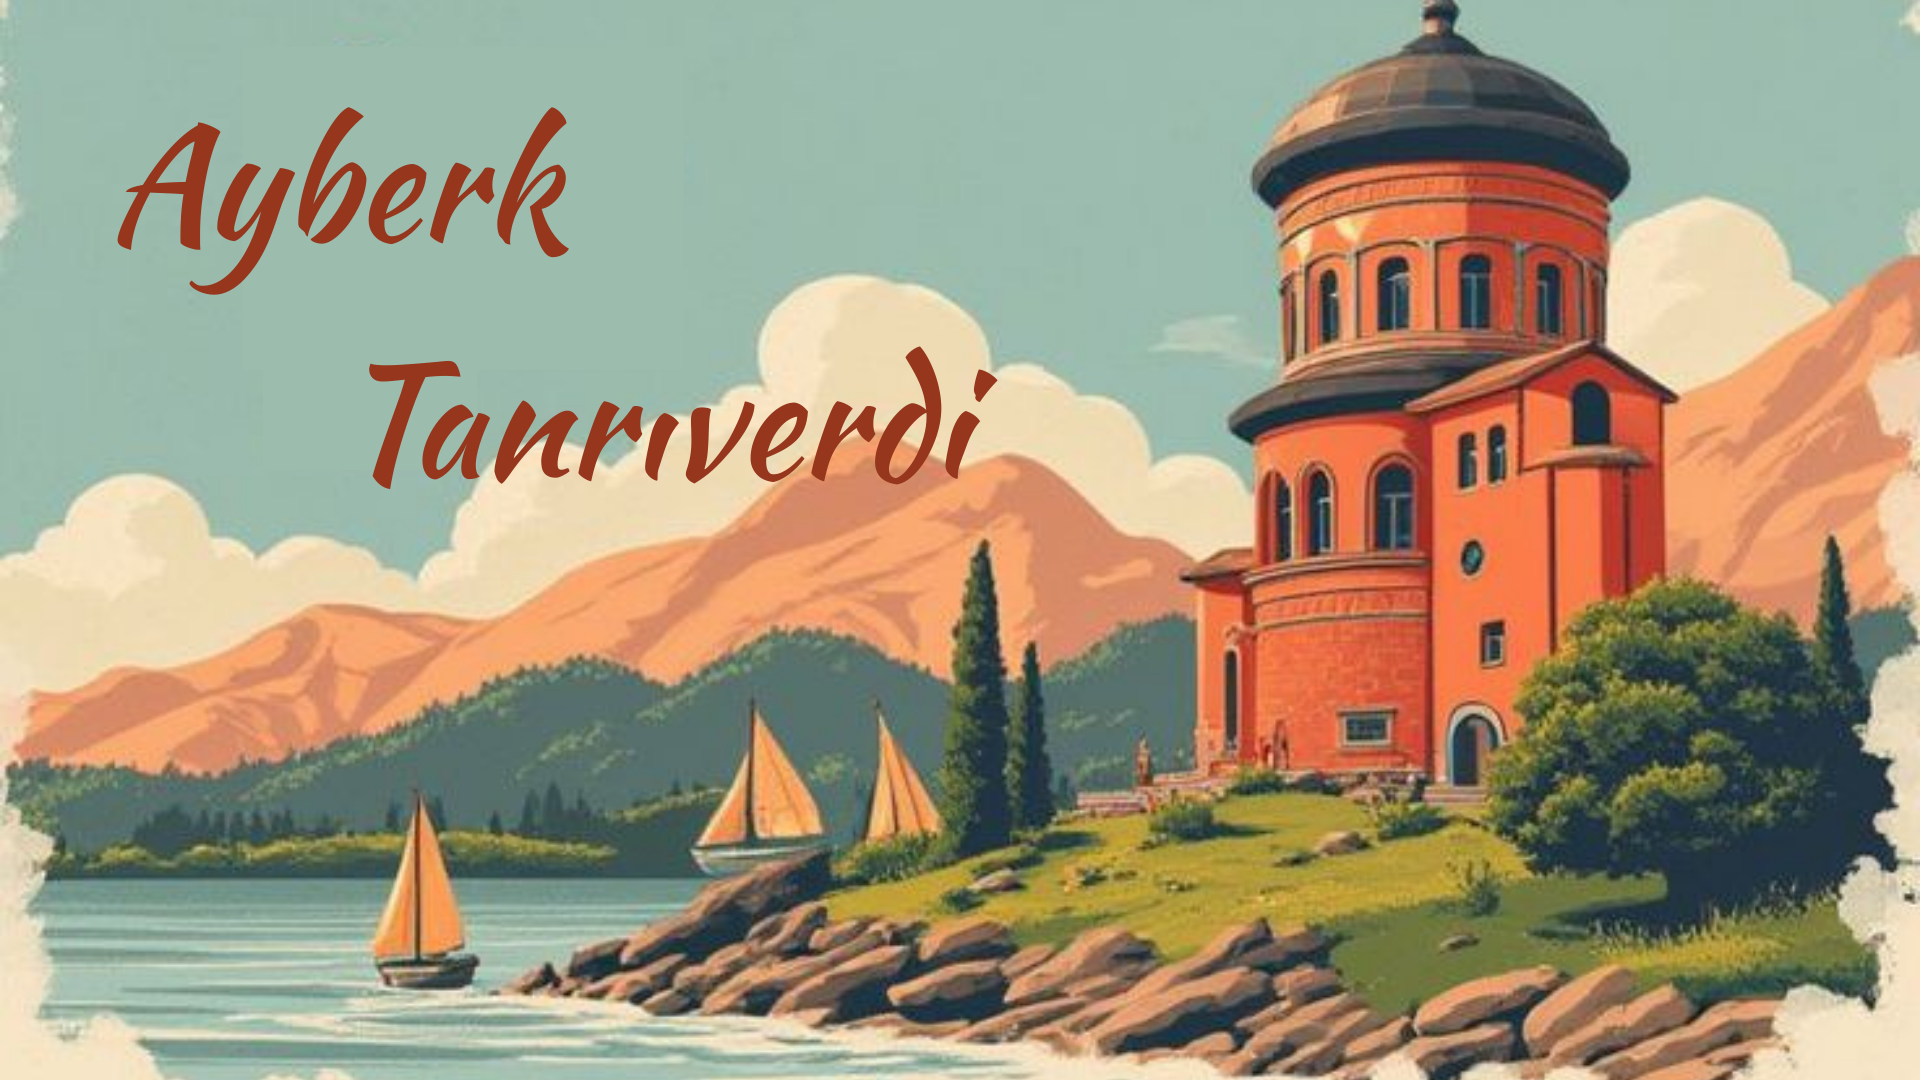
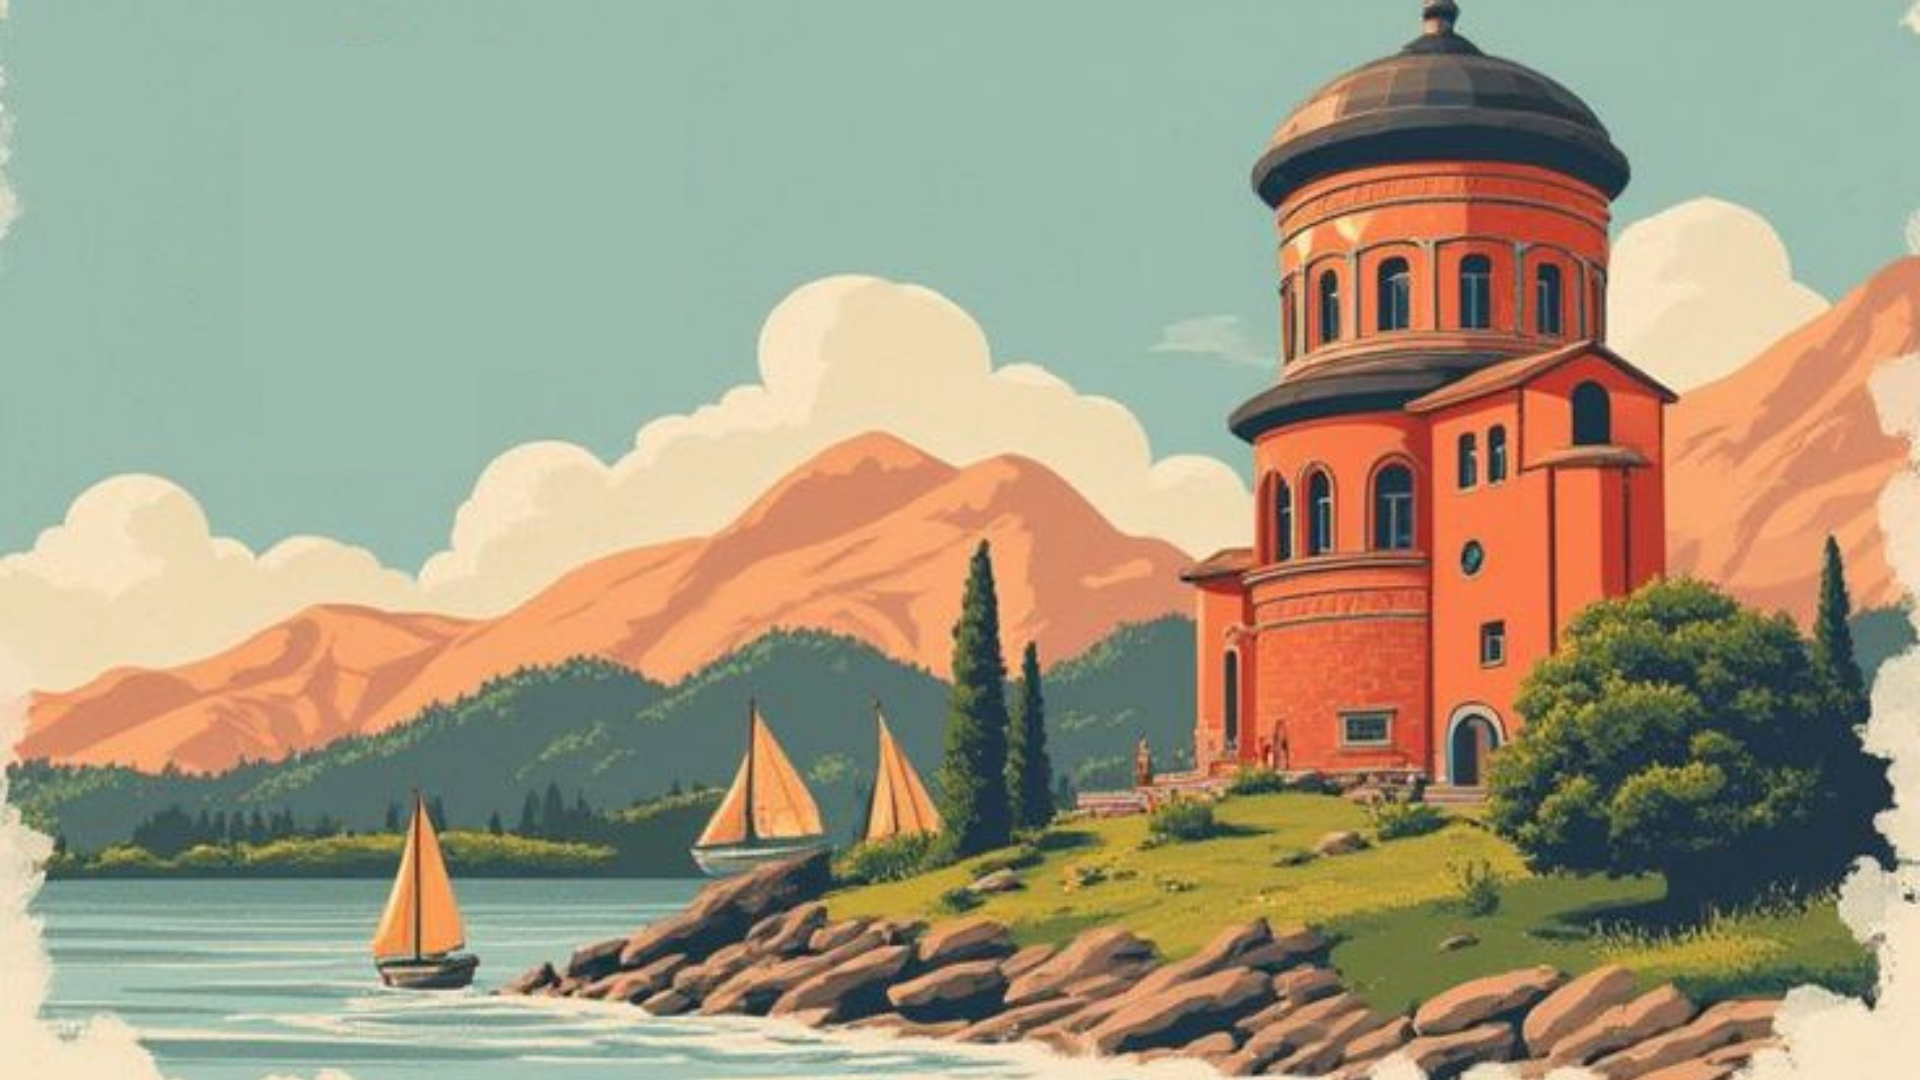
What changed

Changed region(s): [[0.1875, 0.3056, 0.5312, 0.4583], [0.0625, 0.0917, 0.3125, 0.275], [0.2812, 0.0917, 0.3125, 0.1222]]

diff --git a/app/page.tsx b/app/page.tsx
@@ -16,7 +16,7 @@ export default function Home() {
           <div 
             className="absolute inset-0 z-0 opacity-30"
             style={{ 
-              backgroundImage: 'url(/images/arkaplan.png)', 
+              backgroundImage: 'url(/images/arkaplan.png?v=2)', 
               backgroundSize: 'cover', 
               backgroundPosition: 'center center', 
               backgroundRepeat: 'no-repeat',
@@ -166,7 +166,7 @@ export default function Home() {
                   className="text-2xl font-bold text-white mb-3 uppercase tracking-tight"
                   style={{ fontFamily: 'var(--font-oswald)', fontWeight: 700 }}
                 >
-                  Renkli Küpler
+                  Balance Tower 3D
                 </h3>
                 <p className="text-white/70 text-sm mb-6 leading-relaxed">
                   Renkli küplere kafasını takmış bir çocuğun odasında yine renkli küplerle kule yaparak 

diff --git a/app/components/Footer.tsx b/app/components/Footer.tsx
@@ -14,7 +14,7 @@ export default function Footer() {
             <ul className="space-y-2 text-sm text-white/70">
               <li><Link href="/oyunlarim" className="hover:text-white transition-colors">Marble 3D</Link></li>
               <li><Link href="/oyunlarim" className="hover:text-white transition-colors">Flappy Bird 3D</Link></li>
-              <li><Link href="/oyunlarim" className="hover:text-white transition-colors">Renkli Küpler</Link></li>
+              <li><Link href="/oyunlarim" className="hover:text-white transition-colors">Balance Tower 3D</Link></li>
               <li><Link href="/oyunlarim" className="hover:text-white transition-colors">Car Game</Link></li>
             </ul>
           </div>

diff --git a/app/oyunlarim/page.tsx b/app/oyunlarim/page.tsx
@@ -28,7 +28,7 @@ export default function Oyunlarim() {
     },
     {
       id: 'balance-tower-3d',
-      name: 'Renkli Küpler',
+      name: 'Balance Tower 3D',
       description: 'Renkli küplere kafasını takmış bir çocuğun odasında yine renkli küplerle kule yaparak havalandırmadan kaçmaya çalışan bir karakter.',
       playLink: 'https://play.unity.com/en/games/00fae635-3b90-4d6f-ac81-4f82cc6c298a/balancetower',
       downloadLink: 'https://drive.google.com/file/d/1kRFEj-topMsVyMMaInysEdXZilCkWtsP/view',
